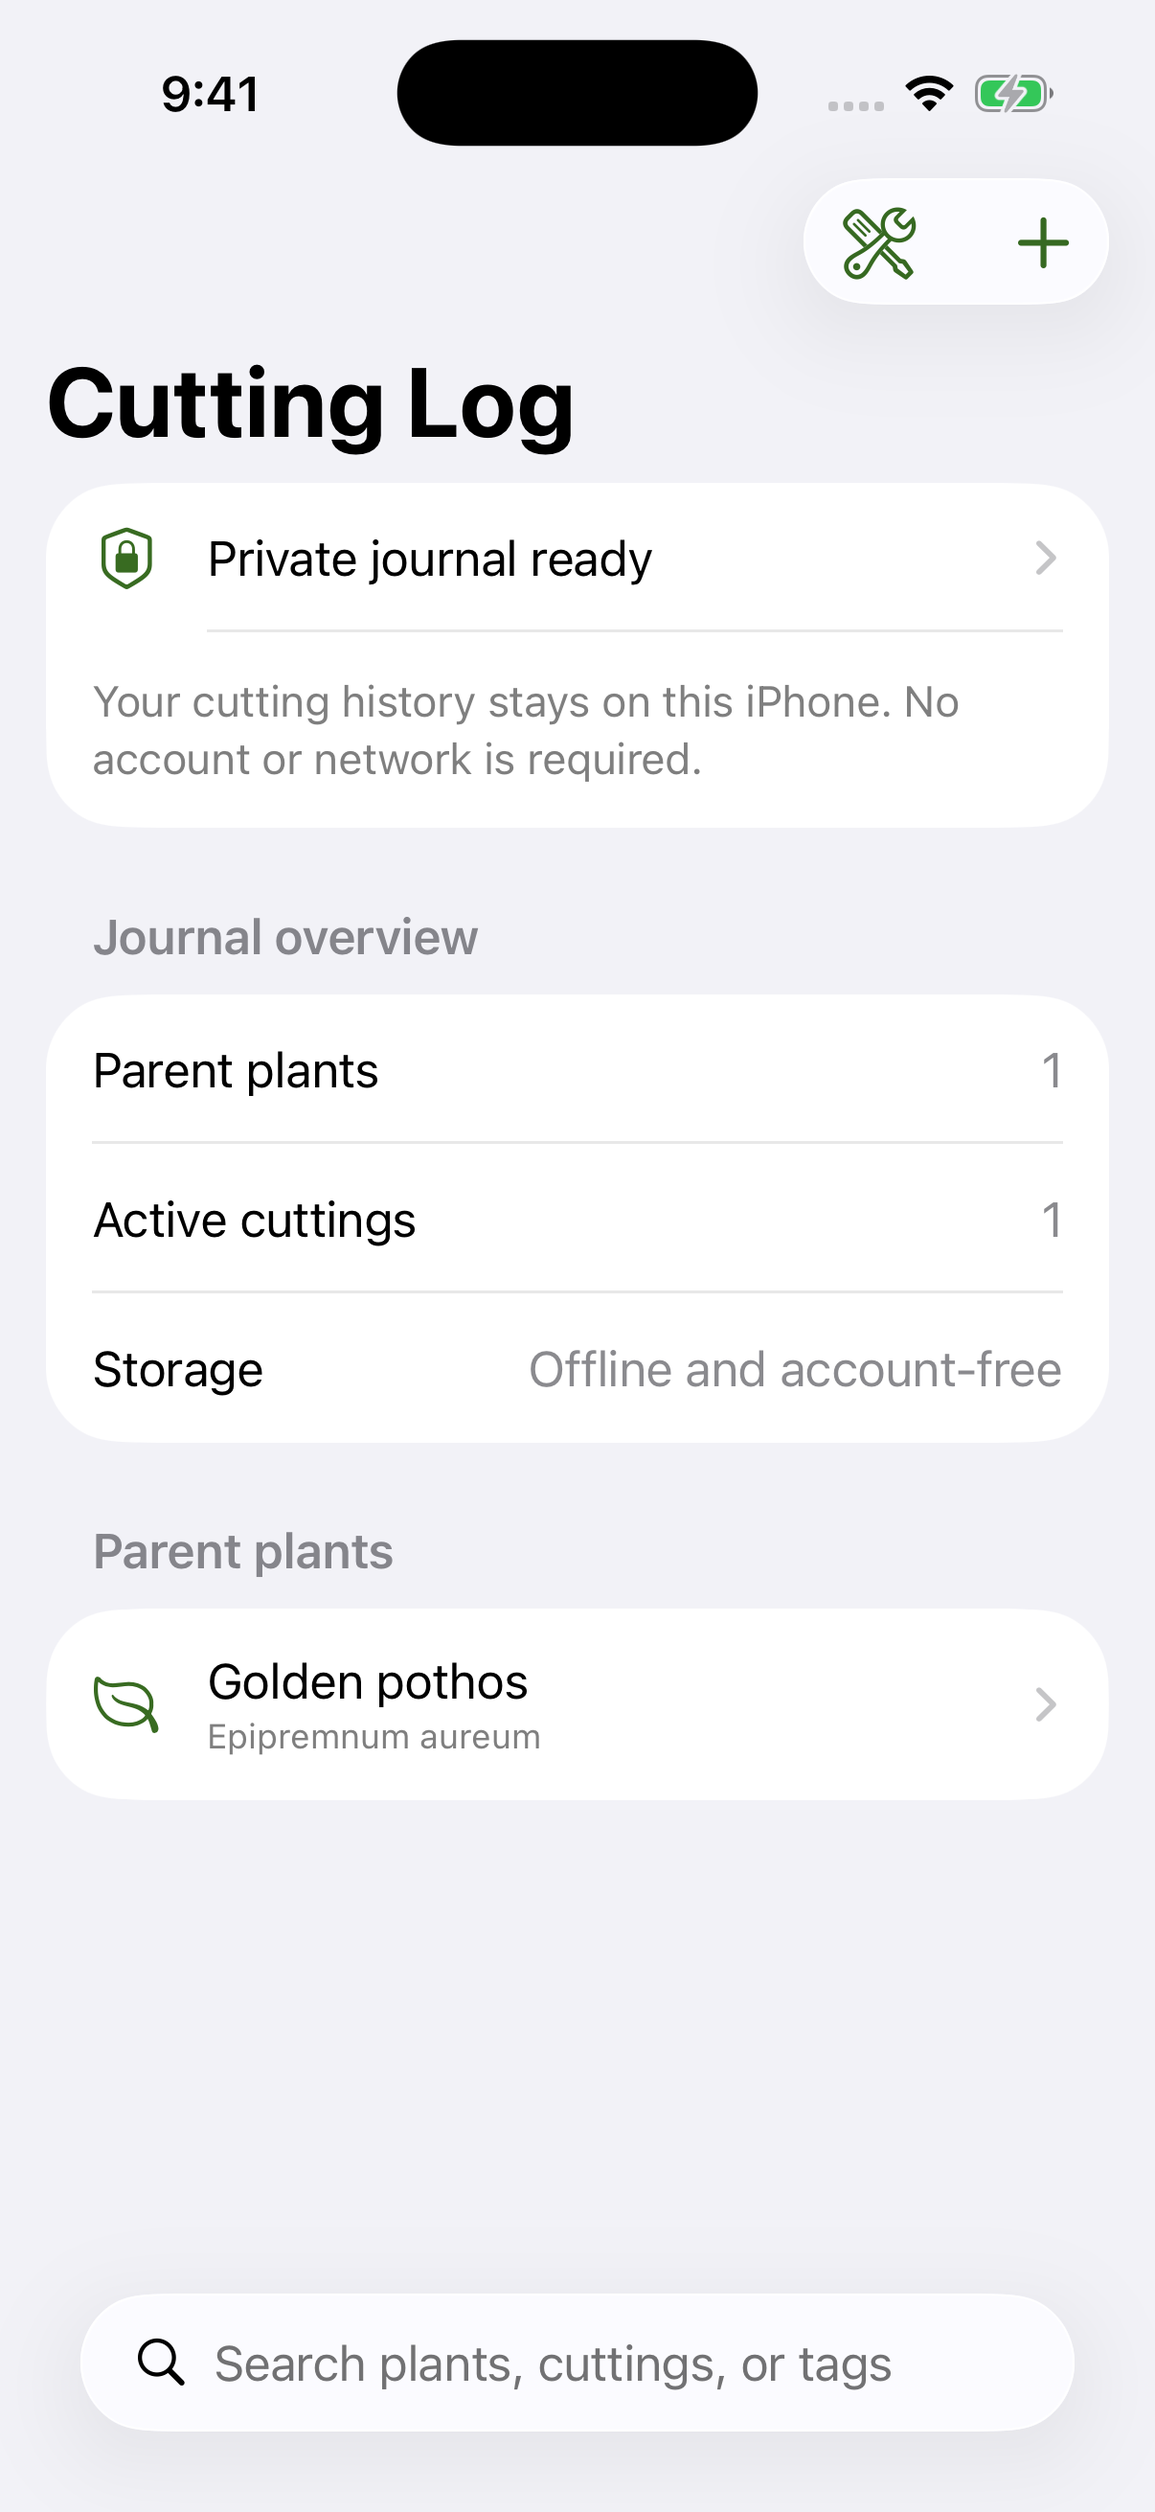
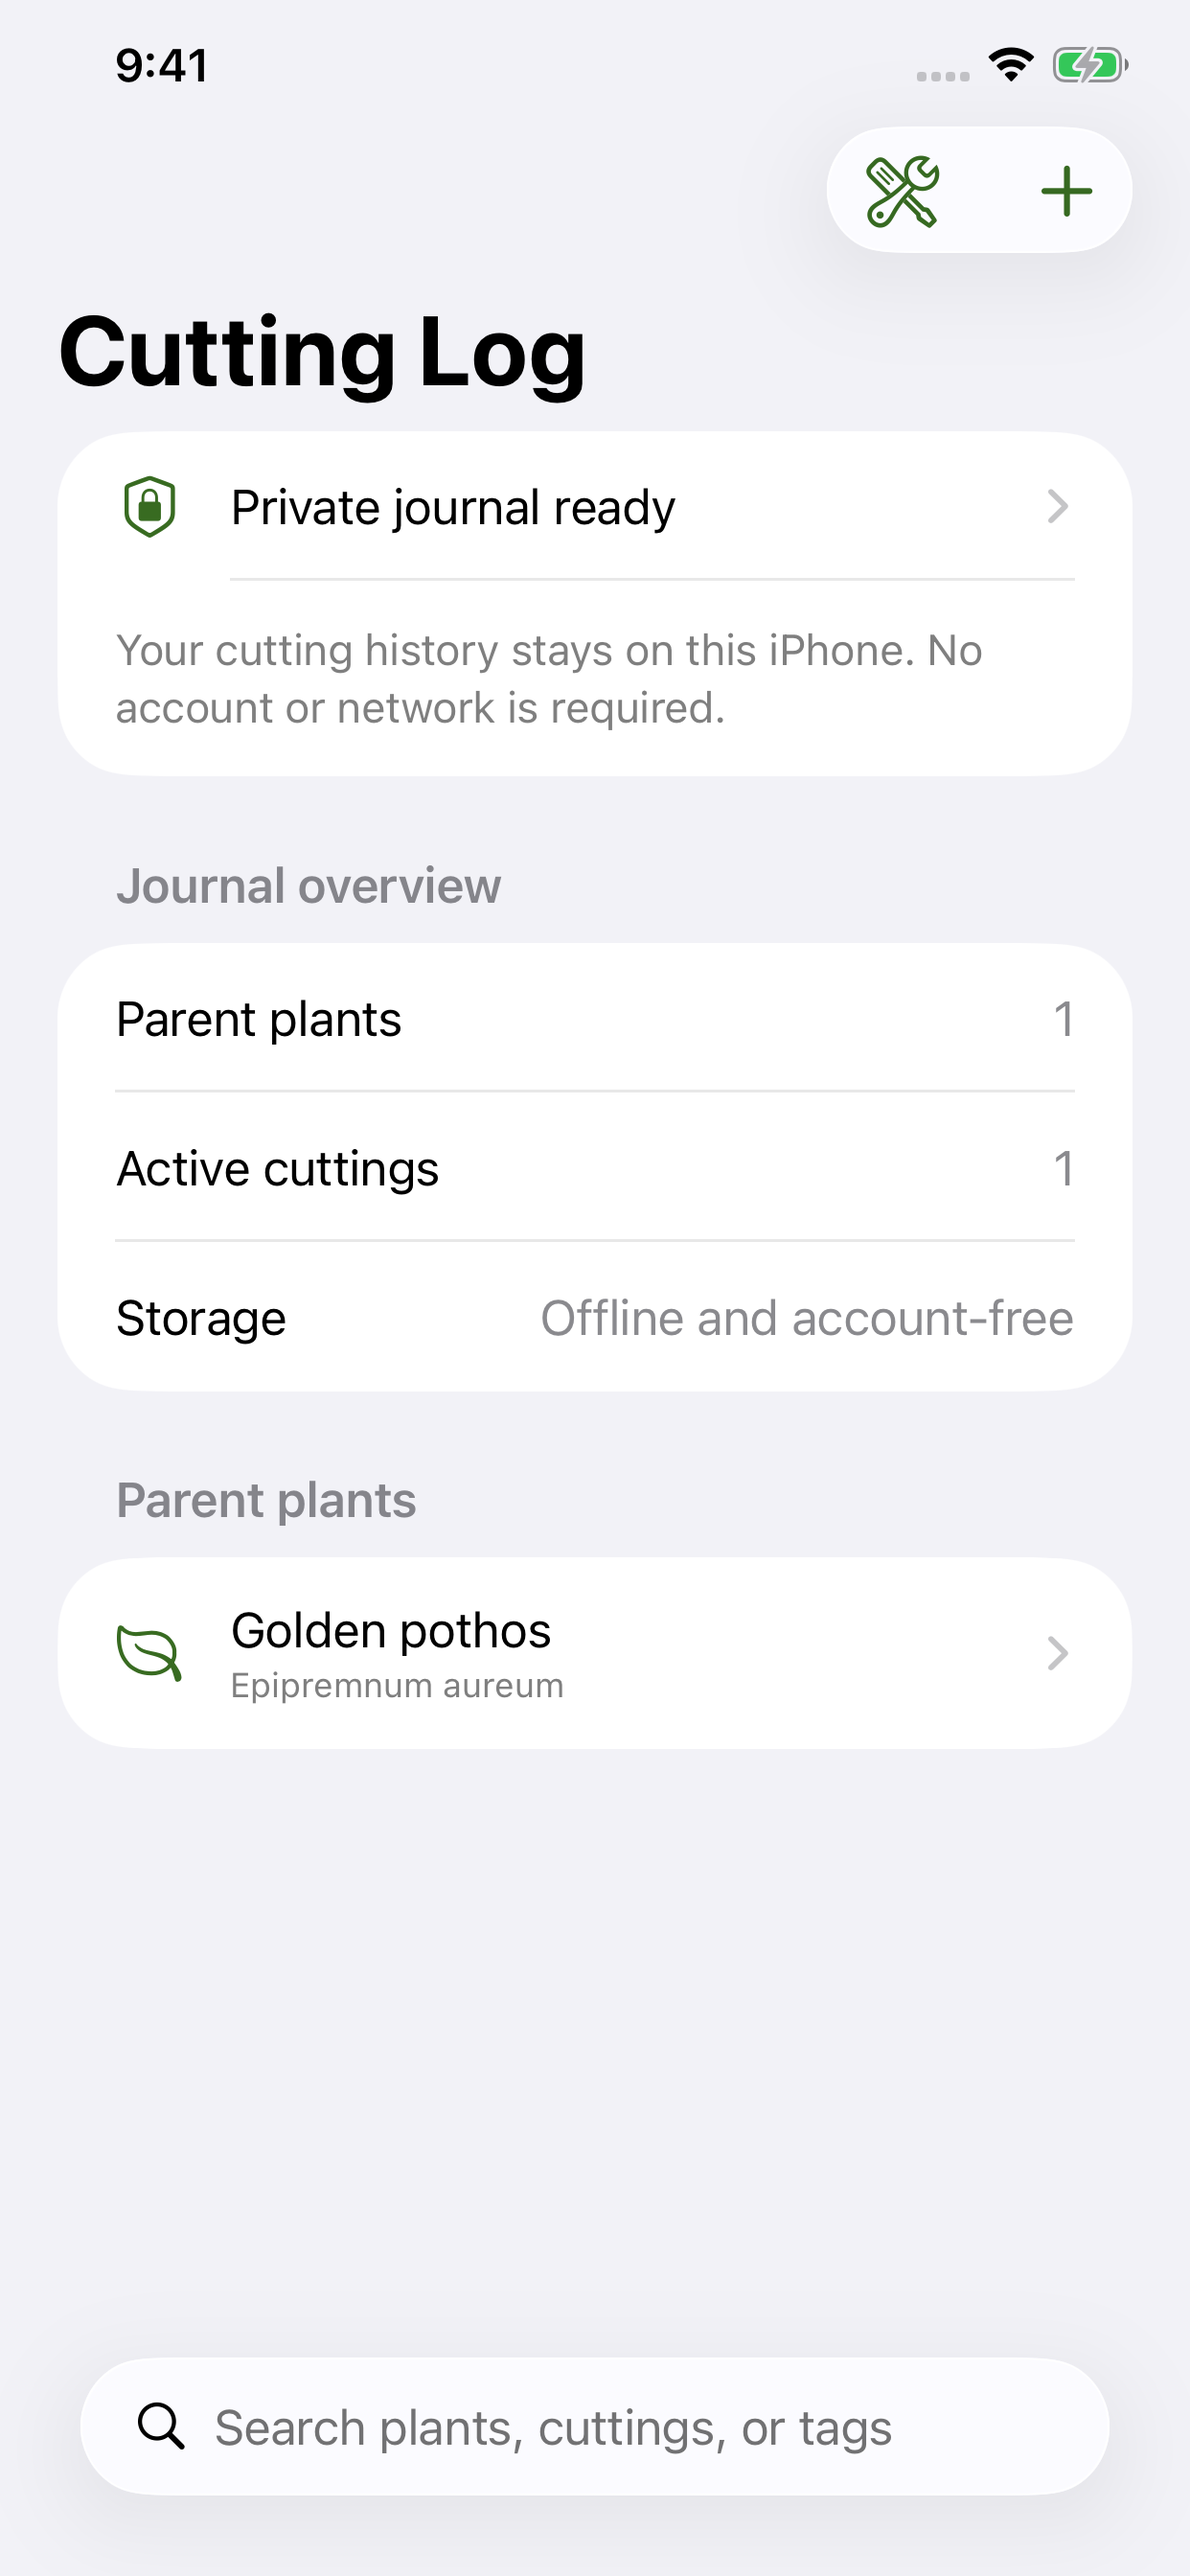
Capture native 6.5-inch iPhone screenshots

diff --git a/docs/screenshots/README.md b/docs/screenshots/README.md
@@ -1,8 +1,10 @@
 # Native iPhone screenshots
 
-Captured from the running SwiftUI app on an iPhone 17 Pro simulator (iOS 26.5)
-on September 19, 2026, using Xcode 26.6. The sample journal was entered through
-the app and persisted across termination and relaunch.
+Captured from the running SwiftUI app on a 6.5-inch iPhone 11 Pro Max simulator
+(iOS 26.5) on September 19, 2026, using Xcode 26.6. All four PNGs are native
+1242 × 2688 portrait captures, without resizing. The sample journal was entered
+through the app, verified across termination and relaunch, and copied into a
+clean 6.5-inch simulator for these captures.
 
 - `01-private-journal.png`: journal overview after relaunch.
 - `02-find-active-cuttings.png`: parent plant, active cutting, and sibling summary.
